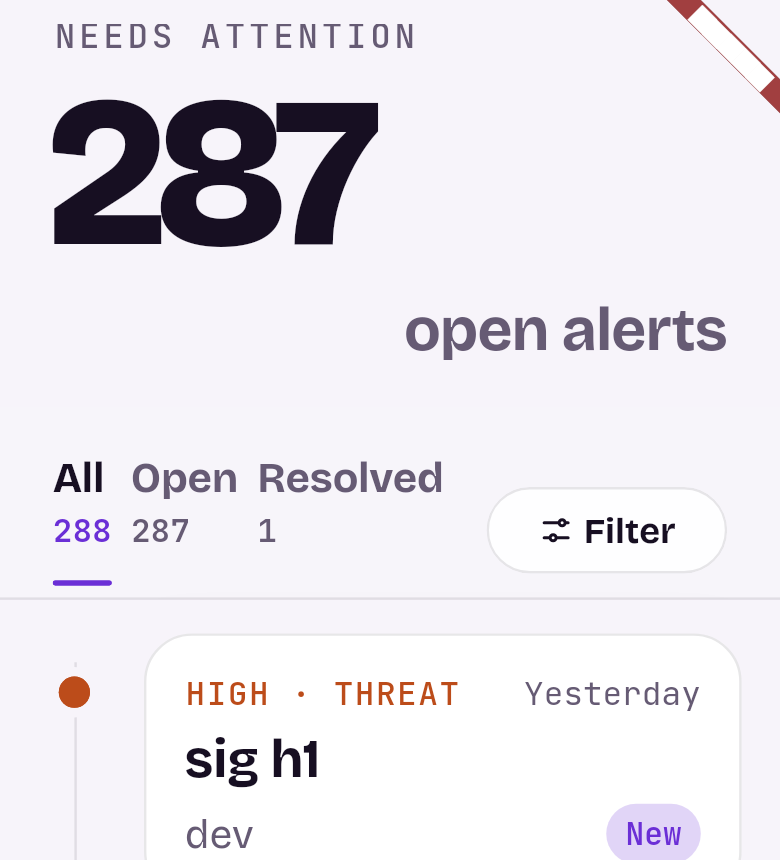
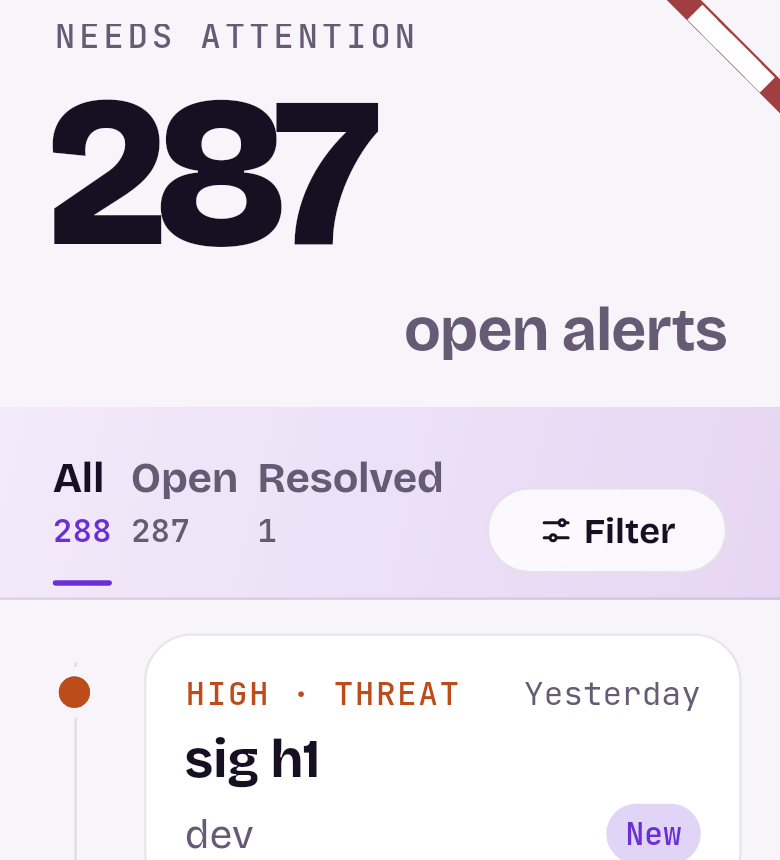
ui(alerts): opaque matching-gradient pinned header — no more ghosting
The pinned tabs row's background was semi-transparent (blur + wash), so alert
cards and their dark text ghosted through while scrolling — visibly broken.
Tried stronger blur + lighter wash; dark text still bled through at every
opacity worth having. Final fix: the header background is now an OPAQUE linear
gradient using the screen background's own colours and direction
(AssasColors.bgTop -> bgMid, topLeft -> bottomRight), so nothing shows through
and there is no flat band — the strip reads as part of the screen background in
both light and dark. BackdropFilter dropped (cheaper too). Verified on a
scrolled render over the real AssasBackground at the stacked scale: no ghost,
all counts + the fixed-width right-aligned button intact. Regenerated the two
review screenshots. Mobile 98 passed, analyze clean.

Changed region(s): [[0.6462, 0.4535, 1.0, 0.6953]]

diff --git a/app/mobile/lib/screens/alerts/alert_list_screen.dart b/app/mobile/lib/screens/alerts/alert_list_screen.dart
@@ -1,5 +1,4 @@
 import 'dart:math' as math;
-import 'dart:ui' as ui;
 
 import 'package:assas_core/assas_core.dart';
 import 'package:flutter/material.dart';
@@ -254,17 +253,19 @@ class _AlertListScreenState extends State<AlertListScreen> {
 
   Widget _tabs(List<SecurityAlert>? alerts, bool stacked) {
     final list = alerts ?? const <SecurityAlert>[];
-    // Frosted, pinned strip: fills the header height, content sits at the
-    // bottom above the hairline; the big title scrolls away above it.
+    // Pinned strip: fills the header height, content sits at the bottom above
+    // the hairline; the big title scrolls away above it. The background is an
+    // OPAQUE gradient matching the screen background's direction and colours,
+    // so nothing ghosts through while scrolling and there is no flat band.
     return ClipRect(
-      child: BackdropFilter(
-        filter: ui.ImageFilter.blur(sigmaX: 7, sigmaY: 7),
-        child: Container(
+      child: Container(
           alignment: Alignment.bottomCenter,
           decoration: BoxDecoration(
-            // Near-opaque wash over the blur so pinned content masks the list
-            // scrolling beneath it (pure blur let cards show through).
-            color: Ui.fade(Ui.bg, .88),
+            gradient: LinearGradient(
+              begin: Alignment.topLeft,
+              end: Alignment.bottomRight,
+              colors: [AssasColors.bgTop, AssasColors.bgMid],
+            ),
             border: Border(bottom: BorderSide(color: Ui.line)),
           ),
           // Inset to the page text margin so the row lines up with the big title
@@ -299,7 +300,6 @@ class _AlertListScreenState extends State<AlertListScreen> {
               Padding(padding: const EdgeInsets.only(bottom: 4), child: _filterPill()),
             ],
           ),
-        ),
       ),
     );
   }
